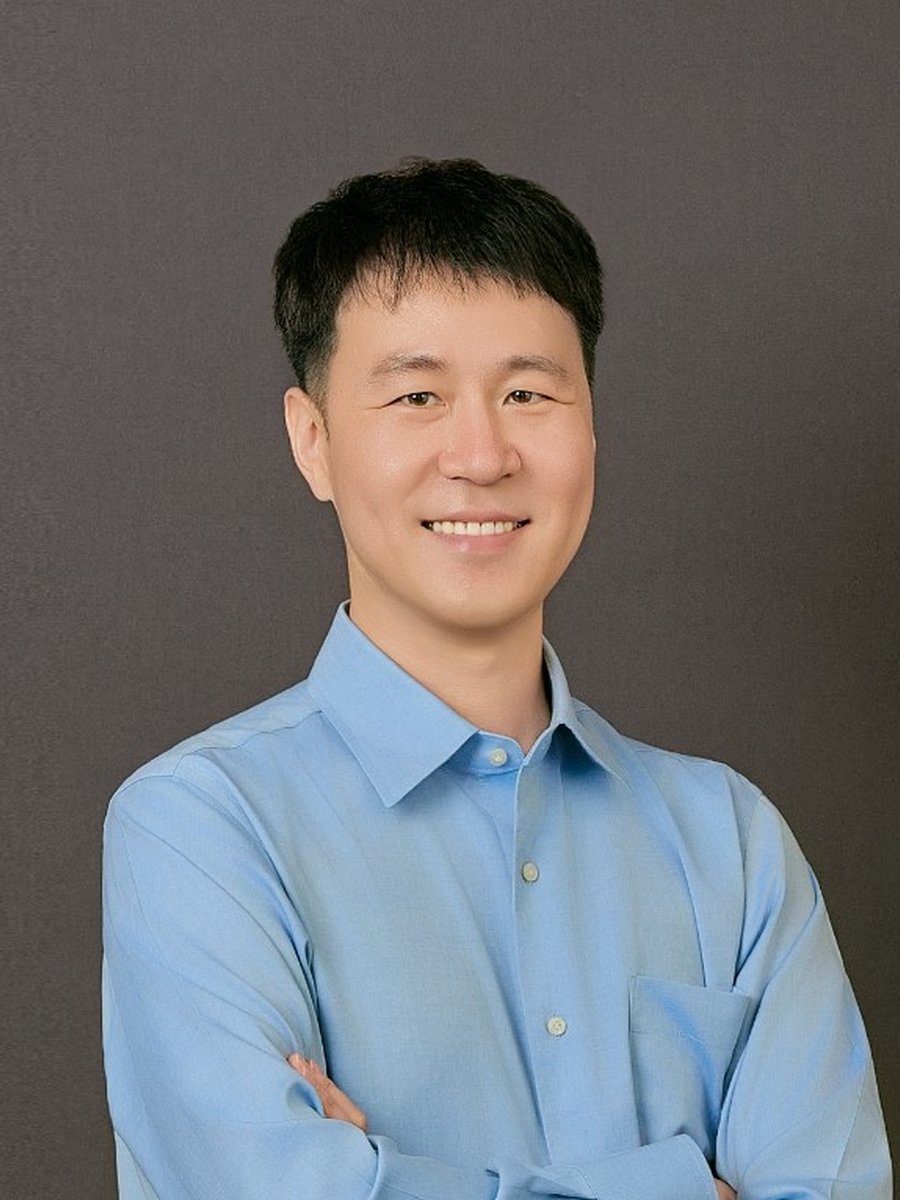
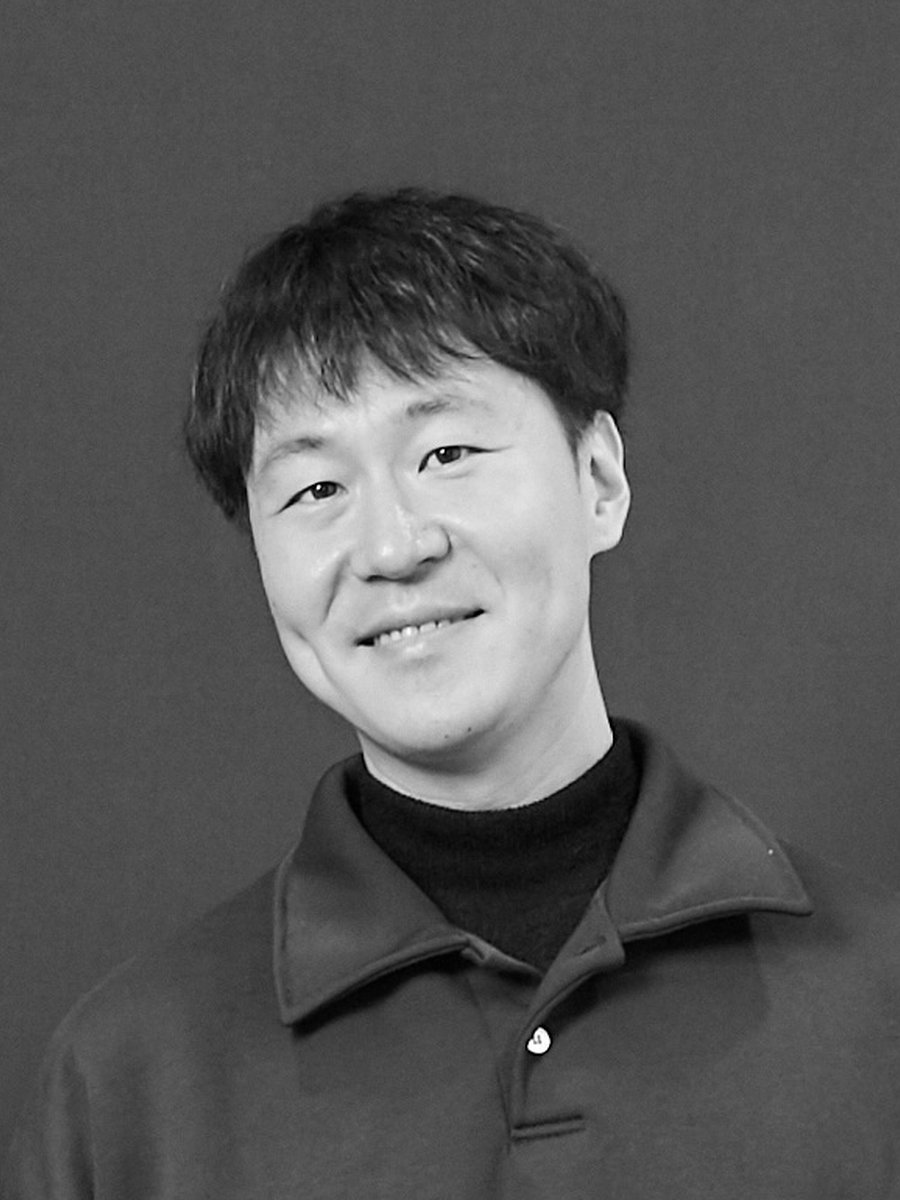
Studio profile photos (P27), couple photo (P29), share image

diff --git a/style.css b/style.css
@@ -54,8 +54,12 @@ nav ul a:hover{color:var(--ink)}
 
 /* people */
 .who{background:var(--pine);color:#eef6f1}
-.who .in{display:grid;grid-template-columns:repeat(2,minmax(0,1fr));gap:clamp(20px,4vw,56px)}
-.person{display:grid;grid-template-columns:minmax(130px,220px) minmax(0,1fr);gap:clamp(16px,2.4vw,28px);align-items:center}
+.who .in{display:grid;grid-template-columns:minmax(0,5fr) minmax(0,6fr);gap:clamp(24px,4vw,64px);align-items:center}
+.who h2{color:#fff;margin-bottom:28px}
+.couple{margin:0;border-radius:22px;overflow:hidden;box-shadow:0 0 0 8px #ffffff14}
+.couple img{display:block;width:100%;height:auto;aspect-ratio:4/5;object-fit:cover}
+.people{display:grid;gap:28px;align-content:center}
+.person{display:grid;grid-template-columns:minmax(110px,170px) minmax(0,1fr);gap:clamp(16px,2.4vw,28px);align-items:center}
 .pf{display:block;width:100%;height:auto;aspect-ratio:3/4;object-fit:cover;border-radius:18px;box-shadow:0 0 0 6px #ffffff14}
 .av{width:96px;height:96px;border-radius:50%;background:var(--pine2);overflow:hidden}
 .person h3{font-size:26px}
@@ -155,7 +159,8 @@ footer .in{display:grid;gap:6px}
 
 @media(max-width:860px){
 .cards{grid-template-columns:minmax(0,1fr)}
-.vals .in,.story .in,.contact .in{grid-template-columns:minmax(0,1fr)}
+.vals .in,.story .in,.contact .in,.who .in{grid-template-columns:minmax(0,1fr)}
+.couple{max-width:560px}
 .gal{grid-template-columns:repeat(2,minmax(0,1fr));grid-auto-rows:200px}
 .gal .tile.big{grid-row:auto;grid-column:auto}
 .stories .in>div.grid{grid-template-columns:minmax(0,1fr)}}
@@ -167,7 +172,8 @@ footer .in{display:grid;gap:6px}
 .hero{min-height:auto;display:block}
 .scene{position:relative;height:300px;display:block}
 .hero .copy{padding-top:32px;padding-bottom:8px}
-.who .in,.vlist,form{grid-template-columns:minmax(0,1fr)}
+.vlist,form{grid-template-columns:minmax(0,1fr)}
+.couple img{aspect-ratio:1/1;object-position:50% 20%}
 .person{grid-template-columns:118px minmax(0,1fr);align-items:start}
 .pf{border-radius:14px}
 .gal{grid-auto-rows:160px;gap:10px}

diff --git a/index.html b/index.html
@@ -9,7 +9,9 @@
 <meta property="og:description" content="사람과 사람을 연결하며, 더 풍요로운 삶을 만들어가는 이야기">
 <meta property="og:type" content="website">
 <meta property="og:url" content="https://matthewkim5081.github.io/">
-<meta property="og:image" content="https://matthewkim5081.github.io/photos/full/meeting-02.jpg">
+<meta property="og:image" content="https://matthewkim5081.github.io/photos/profile/couple-og.jpg">
+<meta property="og:image:width" content="1200">
+<meta property="og:image:height" content="630">
 <link rel="preconnect" href="https://fonts.googleapis.com">
 <link href="https://fonts.googleapis.com/css2?family=Gowun+Batang:wght@400;700&family=Noto+Sans+KR:wght@400;500;700&display=swap" rel="stylesheet">
 <link rel="stylesheet" href="style.css">
@@ -60,10 +62,14 @@
 </header>
 
 <section class="band who" id="who"><div class="in">
+<figure class="couple"><img src="photos/profile/couple.jpg" width="1200" height="1500" alt="김대엽과 최인영이 마주 보며 웃는 사진"></figure>
+<div class="people">
+<h2>함께 걷는 두 사람</h2>
 <div class="person"><img class="pf" src="photos/profile/inyoung.jpg" width="900" height="1200" alt="최인영 프로필 사진">
 <div><h3>최인영</h3><div class="role">아내 · 사람을 잇는 사람</div><p>사람 만나는 걸 좋아하고, 누군가의 이야기를 들어주는 걸 좋아합니다. 도움이 필요한 사람을 그냥 지나치지 못하는 세 아이의 엄마입니다.</p></div></div>
 <div class="person"><img class="pf" src="photos/profile/daeyeop.jpg" width="900" height="1200" alt="김대엽 프로필 사진">
 <div><h3>김대엽</h3><div class="role">남편 · 자유를 꿈꾸는 엔지니어</div><p>전자공학을 전공하고 머신 비전 업계에서 11년째 일하고 있습니다. 일만 알던 삶에서 벗어나, 사업가처럼 생각하고 투자자처럼 성장하기 위해 공부합니다.</p></div></div>
+</div>
 </div></section>
 
 <section class="band" id="activity"><div class="in">
